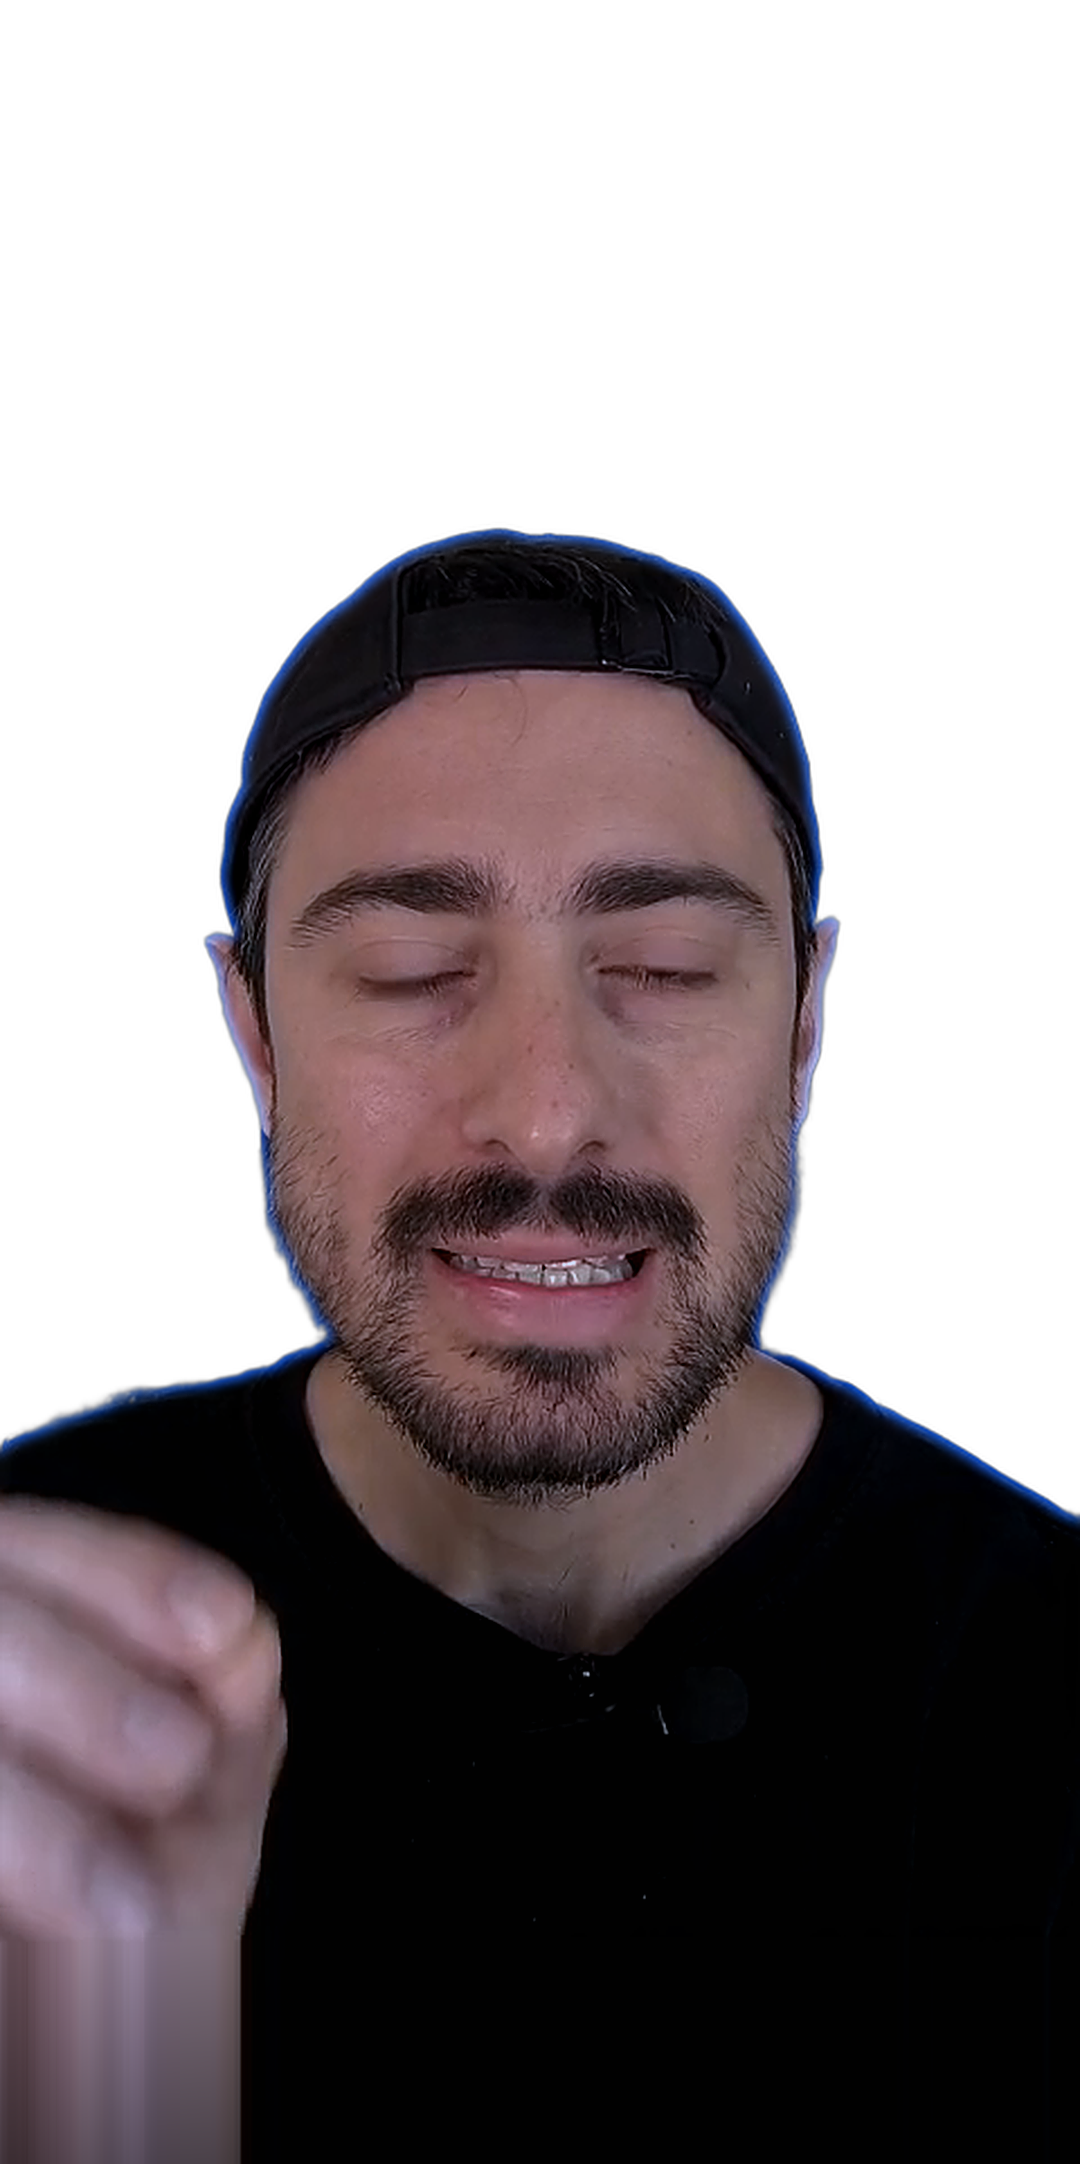
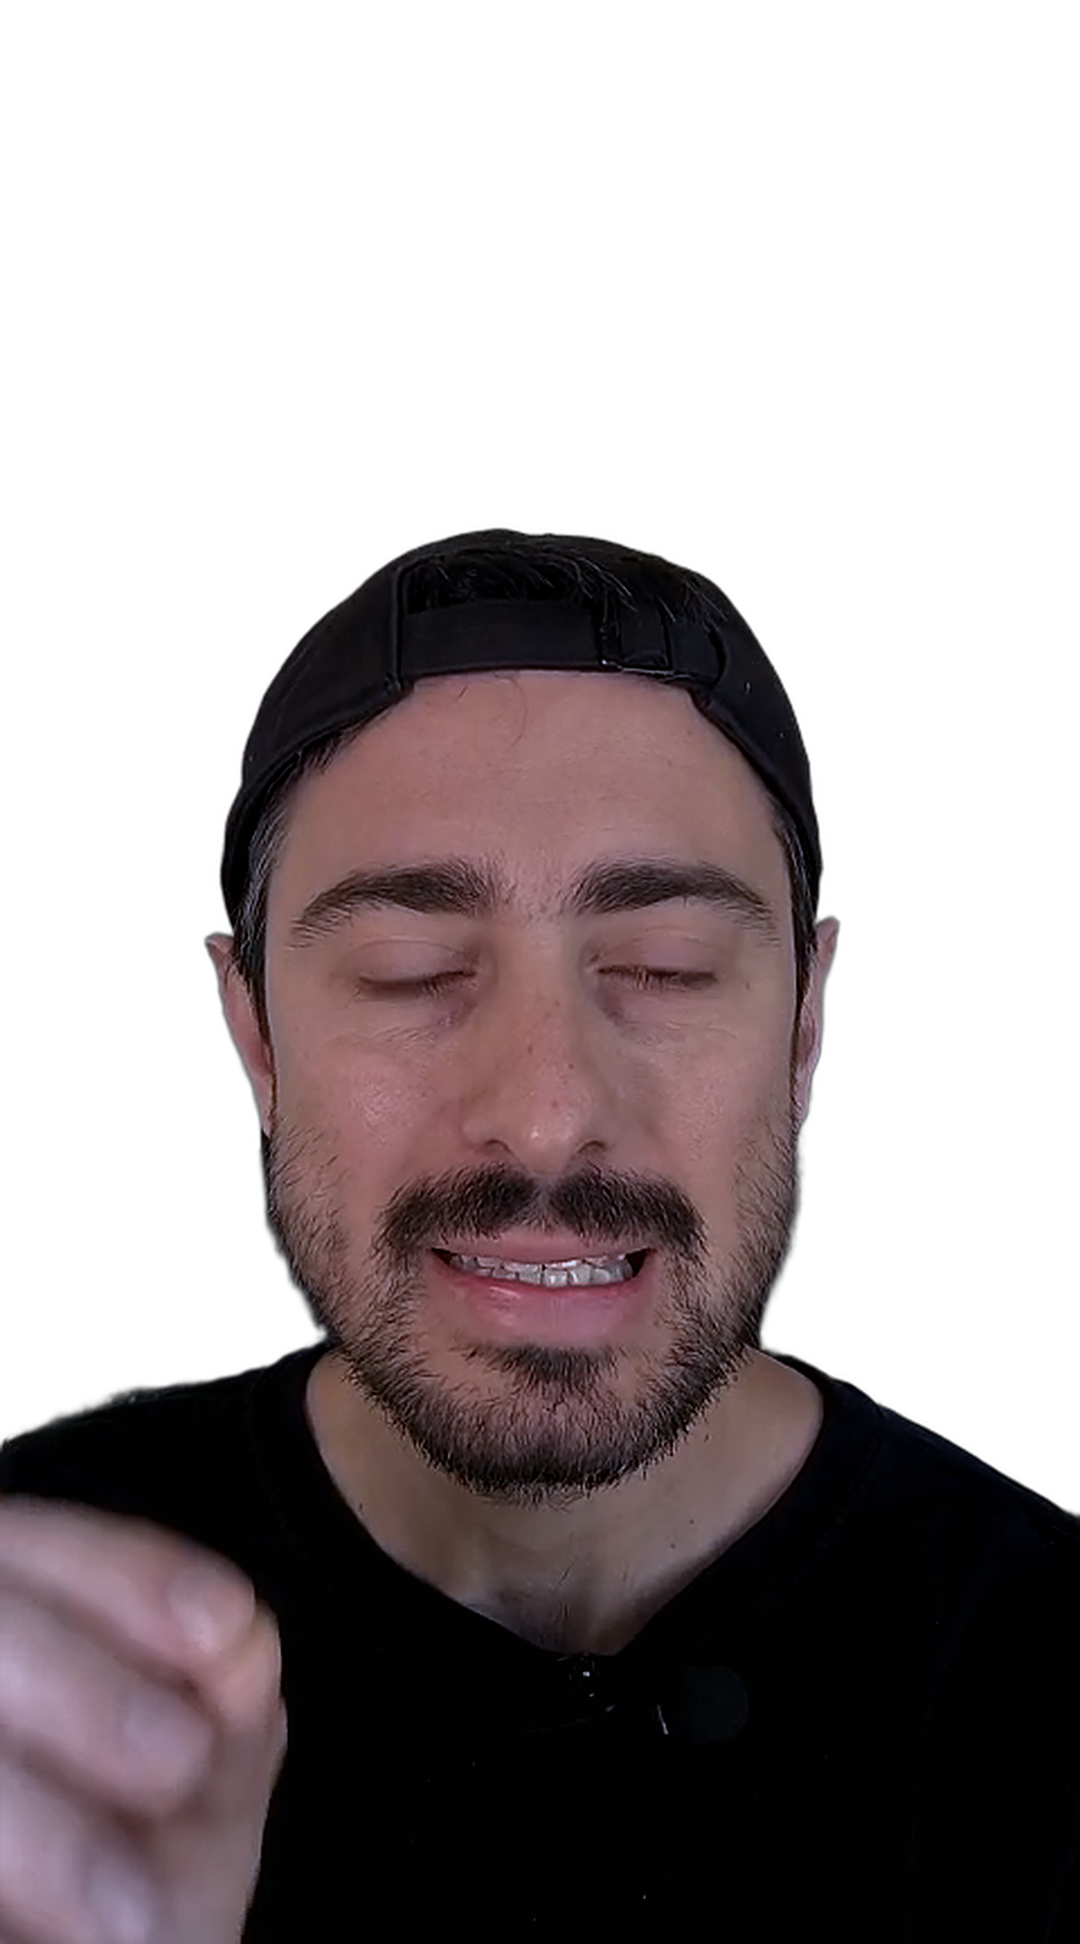
Reel BF: sujeto a todo el ancho, apoyado abajo, sin marco
Claude-Session: https://claude.ai/code/session_012Fnto9jpQe32MrKx8Y2jJE

Changed region(s): [[0.0, 0.2469, 1.0, 1.0]]

diff --git a/video/reel/prueba.html b/video/reel/prueba.html
@@ -37,11 +37,11 @@
   .frame i{position:absolute;width:12px;height:12px;background:var(--paper)}
   .frame i:nth-child(1){left:-7px;top:-7px}.frame i:nth-child(2){right:-7px;top:-7px}
   .frame i:nth-child(3){left:-7px;bottom:-7px}.frame i:nth-child(4){right:-7px;bottom:-7px}
-  #sujeto{position:absolute;left:156px;top:44px;width:768px;clip-path:inset(0 0 186px 0)}
+  #sujeto{position:absolute;left:0;bottom:0;width:1080px}
 
   /* Subtítulo: una palabra, posición fija */
   /* Subtítulo: una palabra, posición fija. 55 px = tamaño 55 de Premiere en secuencia 1080×1920 */
-  .sub{position:absolute;left:0;right:0;top:1140px;text-align:center;font-family:"Archivo Black","Arial Black",Arial,sans-serif;font-size:55px;line-height:1;
+  .sub{position:absolute;left:0;right:0;top:395px;text-align:center;font-family:"Archivo Black","Arial Black",Arial,sans-serif;font-size:55px;line-height:1;
     color:#fff;-webkit-text-stroke:8px var(--black);paint-order:stroke fill;text-shadow:0 4px 0 var(--black)}
 
   #grain{position:absolute;inset:0;width:100%;height:100%;mix-blend-mode:soft-light;opacity:.22;pointer-events:none}
@@ -57,19 +57,16 @@
 <div id="stage">
   <canvas id="bg" class="layer" width="1080" height="1920"></canvas>
 
-  <!-- detrás del sujeto (asoman por los costados) -->
-  <div class="tag" style="left:66px;top:478px">Checklist · Rumor</div>
-  <div class="box" style="left:66px;top:520px;width:250px;font-size:28px">Solo 7 días para estar listo.</div>
-  <div class="seg" style="left:770px;top:540px"><i>+/−</i><i class="on">27/11</i></div>
-  <div class="tag k" style="left:770px;top:604px">7 días</div>
+  <!-- detrás del sujeto (asoman a los costados de la cabeza) -->
+  <div class="tag" style="left:66px;top:560px">Checklist · Rumor</div>
+  <div class="box" style="left:66px;top:602px;width:220px;font-size:26px">Solo 7 días para estar listo.</div>
+  <div class="seg" style="left:800px;top:640px"><i>+/−</i><i class="on">27/11</i></div>
 
-  <div class="panel"></div>
-  <img id="sujeto" src="prueba/sujeto-marco.png" alt="">
-  <div class="frame"><i></i><i></i><i></i><i></i></div>
+  <img id="sujeto" src="prueba/sujeto-completo.png" alt="">
 
-  <!-- delante del sujeto (sobre el torso) -->
-  <div class="tag" style="left:66px;top:948px">¿Listo para pautar?</div>
-  <div class="box" style="left:66px;top:988px;width:330px;font-size:26px">15 checks. 5 etapas.<br>Menos de 2 minutos.</div>
+  <!-- delante del sujeto (al costado de la cara, sin taparla) -->
+  <div class="tag" style="left:40px;top:1110px">¿Listo?</div>
+  <div class="box" style="left:40px;top:1150px;width:215px;font-size:24px">15 checks.<br>5 etapas.<br>2 minutos.</div>
 
   <div class="title"><span>Black Friday <em>2026</em></span></div>
   <div class="sub" id="sub">campaña</div>
